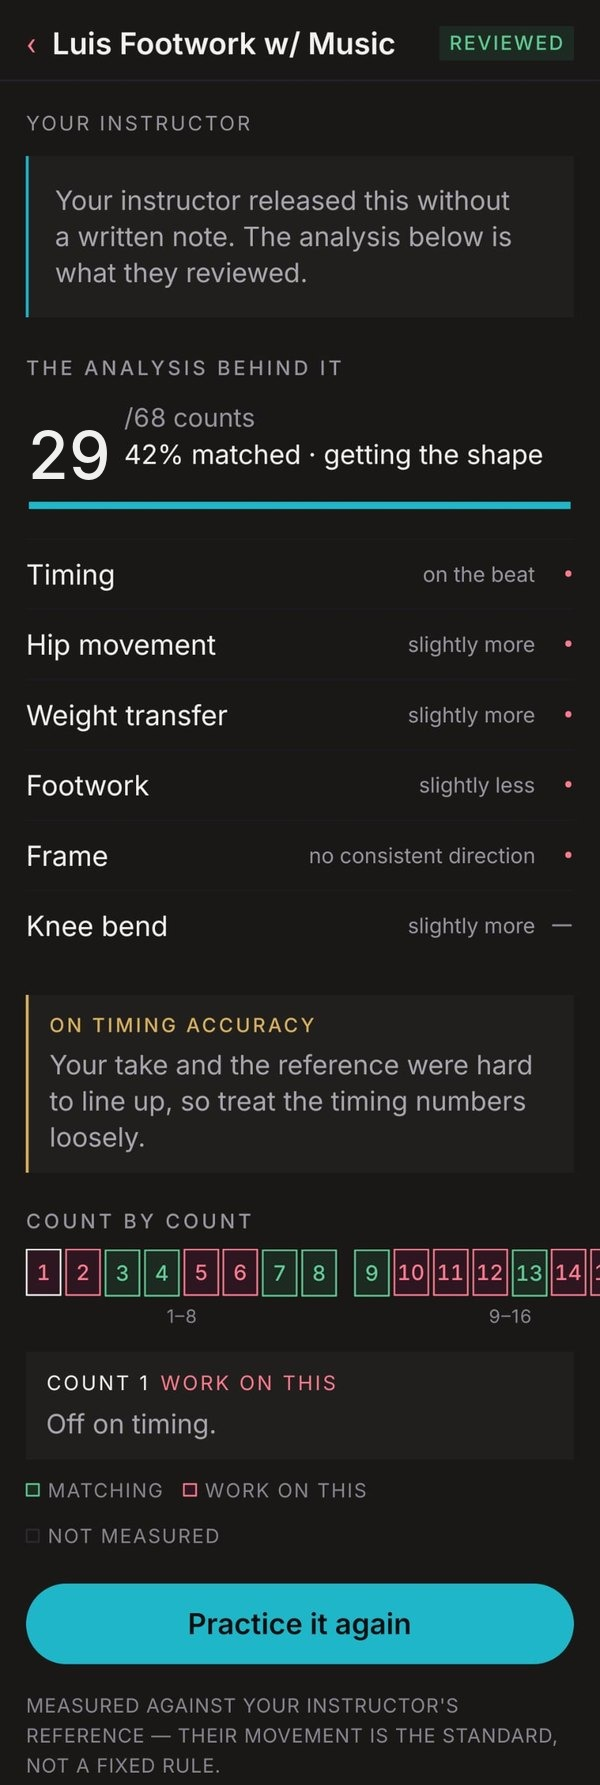
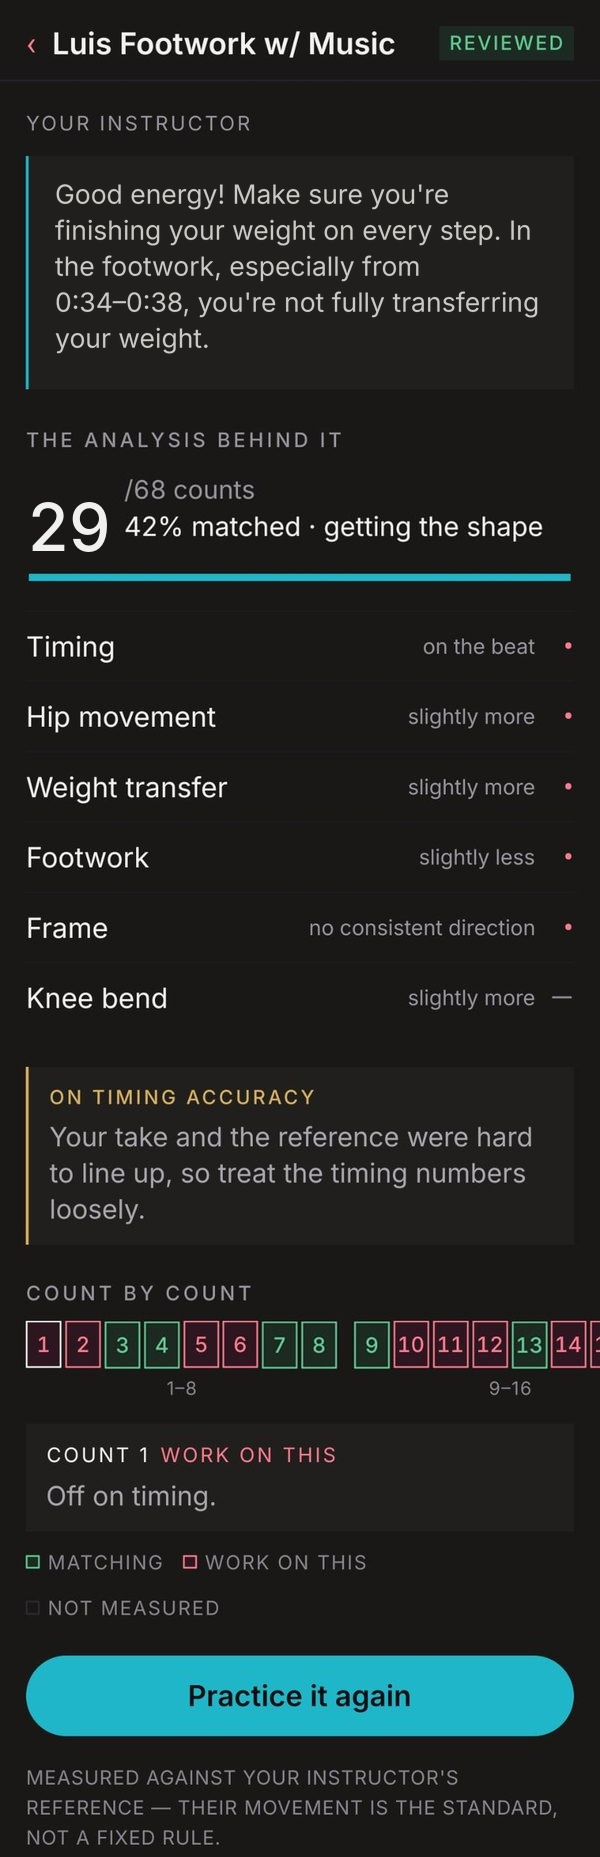
Dance Coach: restructure the case study around the design story (#105)
Claude-Session: https://claude.ai/code/session_018qx1XbAjDzQmDvPBExcwdb

diff --git a/dance-coach.html b/dance-coach.html
@@ -803,9 +803,9 @@ body[data-theme] .next-card:hover .nc-arrow { background: var(--accent); border-
     <figure class="hero-shot"><img src="images/dance-coach/hero.webp?v=6" width="1600" height="825" alt="Instructor review dashboard on a laptop, showing a student's take beside the reference video with a match score of 42, next to the student app on a phone showing a reference video and a Start recording button" /></figure>
 
     <div class="hero-meta"><div class="meta-cell"><span class="k">Role</span><span class="v">Research, product design, system design, and AI-directed build</span></div><div class="meta-cell"><span class="k">Timeline</span><span class="v">Summer 2026–present (in progress)</span></div><div class="meta-cell"><span class="k">Context</span><span class="v">Open Vector curriculum (units 1–3), Anthropic&#x27;s <a class="inline-link" style="font-weight:inherit" href="https://anthropic.skilljar.com/ai-fluency-framework-foundations?next=%2Fai-fluency-framework-foundations%2F291891" target="_blank" rel="noopener">AI Fluency course</a>, and Google&#x27;s <a class="inline-link" style="font-weight:inherit" href="https://pair.withgoogle.com/guidebook/" target="_blank" rel="noopener">People + AI Guidebook</a></span></div><div class="meta-cell"><span class="k">Stack (built by Claude Code)</span><span class="v">MediaPipe, Expo/React Native, FastAPI, Postgres</span></div></div>
-    <div class="prose glance" style="margin-top:28px"><p><strong>At a glance</strong></p><p>Students have no affordable way to get expert feedback between classes. Practicing in a mirror doesn&#x27;t show them why a move looks wrong, so corrections often don&#x27;t stick and progress slows. AI feedback through pose analysis could give them a free, instant way to see what they can&#x27;t catch themselves.</p><ul class="bullets"><li>Interviewed instructors and students in Boston&#x27;s Latin dance community.</li><li>Built the full system end to end: an Android app for students, a web dashboard for instructors, and a pose-analysis backend, tested with real accounts.</li><li>Ran five rounds of fixes to how the app analyzes and scores video, measuring each round on real footage. Technique feedback was still too unreliable to test against the success criteria I had defined.</li><li>Found that MediaPipe was unlikely to do the job students need, then paused the accuracy work to move forward with the design for a model that can.</li></ul></div>
+    <div class="prose glance" style="margin-top:28px"><p><strong>At a glance</strong></p><p>Students have no affordable way to get expert feedback between classes. Practicing in a mirror doesn&#x27;t show them why a move looks wrong, so corrections often don&#x27;t stick and progress slows. AI feedback through pose analysis could give them a free, instant way to see what they can&#x27;t catch themselves.</p><ul class="bullets"><li>Interviewed instructors and students in Boston&#x27;s Latin dance community.</li><li>Built a student app, an instructor dashboard, and a pose-analysis backend by directing Claude Code.</li><li>Ran five rounds of fixes on real footage, but technique feedback stayed too unreliable to test against my success criteria.</li><li>Paused the accuracy work to finish the design for a model that can do the job.</li></ul></div>
 
-    <nav class="jump"><span class="jump-label">Jump to</span><a href="#need">The need</a><a href="#approach">Approach</a><a href="#build">How I built it</a><a href="#testing">Testing</a><a href="#conclusion">Conclusion</a><a href="#change">What would change it</a><a href="#finishing">Finishing the design</a></nav>
+    <nav class="jump"><span class="jump-label">Jump to</span><a href="#need">The need</a><a href="#approach">Approach</a><a href="#build">How I built it</a><a href="#testing">Testing</a><a href="#conclusion">What I found</a><a href="#finishing">Finishing the design</a><a href="#learned">What I learned</a></nav>
 
     <!-- 01 -->
     <section id="need">
@@ -900,7 +900,7 @@ body[data-theme] .next-card:hover .nc-arrow { background: var(--accent); border-
       <a class="more more-link" href="dance-coach-ai-fit.html"><span class="more-label">Defining the AI problem<small>Exercises from Google&#x27;s People + AI Guidebook: whether AI is the right tool, what exactly it must do, and what would count as success. Opens a separate page.</small></span><svg class="chev" viewBox="0 0 16 16" fill="none" stroke="currentColor" stroke-width="2" stroke-linecap="round" stroke-linejoin="round"><path d="M6 3l5 5-5 5"/></svg></a>
       <div class="method-grid">
         <div><div class="m-num">Decision 1</div><h4>The studio&#x27;s own instructor is the reference</h4><p>Every reference video comes from the student&#x27;s own instructor, not a generic model of correct technique, because each studio defines its own standard. Tradeoff: the AI can only compare, never say what is correct on its own.</p></div>
-        <div><div class="m-num">Decision 2</div><h4>The instructor reviews AI feedback before it becomes formal feedback</h4><p>Feedback comes in two tiers. On practice takes, students get AI feedback immediately, as often as they want, and only they see it. When they&#x27;re ready, they submit one final take: the instructor sees the same AI analysis, removes or corrects anything wrong, adds their own notes, and only then releases it to the student as formal feedback. Tradeoff: in practice mode, students see AI feedback no one has checked. That became the project&#x27;s central risk.</p></div>
+        <div><div class="m-num">Decision 2</div><h4>Instructors review AI feedback, and students can flag it</h4><p>Feedback comes in two tiers. On practice takes, students get AI feedback immediately, as often as they want, and only they see it. When they&#x27;re ready, they submit one final take: the instructor sees the same AI analysis, removes or corrects anything wrong, adds their own notes, and only then releases it to the student as formal feedback. Tradeoff: in practice mode, students see AI feedback no one has checked. That became the project&#x27;s central risk. To address it, I&#x27;m adding a way for students to flag a correction that looks wrong. If they submit that take, the instructor sees the flag next to the correction during review.</p></div>
         <div><div class="m-num">Decision 3</div><h4>Students on a mobile app, instructors on a web dashboard</h4><p>Students record on their phones, and Lumyr reviews only on a laptop with two monitors. Tradeoff: two front ends to build and maintain.</p></div>
       </div>
       <div class="dc-body" style="margin-top:24px">
@@ -909,7 +909,7 @@ body[data-theme] .next-card:hover .nc-arrow { background: var(--accent); border-
         <div class="app-screens">
           <figure><figcaption><b>Steps 3–4</b> · Practice feedback, only the student sees it</figcaption><img src="images/dance-coach/screen-practice.jpg" width="600" height="1489" loading="lazy" alt="Student app practice check: the student's take playing at the top, a score of 95 out of 105 counts, 91% matched, a count-by-count strip with counts to work on marked, and a Send to your instructor button" /></figure>
           <figure><figcaption><b>Step 5</b> · Final take sent to the instructor</figcaption><img src="images/dance-coach/screen-sent.jpg" width="600" height="1186" loading="lazy" alt="Student app confirmation: Luis Footwork w/ Music is with your instructor, with a Check for feedback button" /></figure>
-          <figure><figcaption><b>Step 8</b> · Released feedback</figcaption><img src="images/dance-coach/screen-released.jpg" width="600" height="1785" loading="lazy" alt="Student app released feedback: 29 of 68 counts, 42% matched, six markers, a timing accuracy caution, and a count-by-count strip with matching and work-on-this counts" /></figure>
+          <figure><figcaption><b>Step 8</b> · Released feedback</figcaption><img src="images/dance-coach/screen-released.jpg" width="600" height="1857" loading="lazy" alt="Student app released feedback: a sample instructor note, 29 of 68 counts, 42% matched, six markers, a timing accuracy caution, and a count-by-count strip with matching and work-on-this counts" /></figure>
         </div>
         <figure class="app-desk"><figcaption><b>Step 6</b> · Instructor review on the web dashboard</figcaption><img src="images/dance-coach/screen-review.jpg" width="1400" height="2005" loading="lazy" alt="Instructor dashboard review screen in dark mode: the student's take beside the reference video, a match score of 42 with a timing-confidence warning, six markers with three matching, and a feedback box with a Release to Student button" /></figure>
       </div>
@@ -918,14 +918,13 @@ body[data-theme] .next-card:hover .nc-arrow { background: var(--accent); border-
     <!-- 03 -->
     <section id="build">
       <div class="section-head"><span class="section-eyebrow"><span class="num">03</span>How I built it</span></div>
-      <div class="prose"><p>Since I don&#x27;t have a coding background, I built the system by directing Claude Code, following the Open Vector curriculum. Open Vector has you plan the system first, check what the agent produces, and understand why it works. My job was to set the plan, give the agent context, and catch it when it was wrong. This project covers units 1–3. Unit 3, The Pipeline, ends with validation, which is where this project reached its answer.</p></div>
+      <div class="prose"><p>Since I don&#x27;t have a coding background, I built the system by directing Claude Code, following the Open Vector curriculum. Open Vector has you plan the system first, check what the agent produces, and understand why it works. My job was to set the plan, give the agent context, and catch it when it was wrong.</p></div>
       <ul class="impact-list">
         <li><span class="imp-num">01</span><div class="imp-body"><h4>Plan the system before prompting.</h4><p>I modeled the data as nouns and verbs (team, choreo piece, practice take, analysis, instructor note) and wrote VECTOR.md, one document describing the users, the loop and the data model. The agent read it at the start of every session.</p></div></li>
         <li><span class="imp-num">02</span><div class="imp-body"><h4>Stage the work.</h4><p>Thirteen prompts built the core loop, one feature each, in dependency order: storage, then pose analysis, then the dashboard, then sign-in. I checked each one worked before writing the next.</p></div></li>
         <li><span class="imp-num">03</span><div class="imp-body"><h4>Check the agent&#x27;s output.</h4><p>It modeled bachata hip action and weight transfer wrong, and only my training as a dancer caught that. It also left unreleased feedback readable by anyone with the URL, which I caught by reviewing API responses; roles are now verified on the server.</p></div></li>
-        <li><span class="imp-num">04</span><div class="imp-body"><h4>Keep the docs honest.</h4><p>VECTOR.md once said sign-in was built when it wasn&#x27;t. A script now checks the document&#x27;s countable claims against the code.</p></div></li>
       </ul>
-      <div class="prose" style="margin-top:28px"><p>The result runs end to end in production: an Android app for students, a web dashboard for instructors, and a backend that analyzes movement with MediaPipe, Google&#x27;s open-source pose-estimation library.</p></div>
+      <div class="prose" style="margin-top:28px"><p>The result runs end to end in production: an Android app for students, a web dashboard for instructors, and a backend that analyzes movement with MediaPipe.</p></div>
       <a class="more more-link" href="dance-coach-build.html"><span class="more-label">How I built it<small>Prompts, file history, architecture review, data model, and every problem I caught. Opens a separate page.</small></span></a>
     </section>
 
@@ -935,9 +934,9 @@ body[data-theme] .next-card:hover .nc-arrow { background: var(--accent); border-
       <div class="prose"><p>When I ran real student videos through the app, the technique feedback wasn&#x27;t accurate enough to trust. I paused feature work and ran five rounds of fixes to how the app analyzes and scores video, each measured against real takes.</p>
       <p>The model&#x27;s own measures improved:</p><ul class="bullets"><li>A video compared with itself went from a match score of 75 out of 100 to 100.</li><li>On one pair of real takes, the gap between a correct and a deliberately wrong take grew from 2.4 to 11.2 points.</li></ul>
       <p>But the technique feedback stayed unreliable:</p><ul class="bullets"><li>It scored stylistic choices, like accents and shoulder styling, as errors.</li><li>Two differently compressed copies of the same video agreed on weight transfer for only 87.5% of counts.</li><li>Camera angle, distance, lighting and body type changed how large a movement looked.</li><li>In a live test with Andres, it found real differences between a beginner and an advanced dancer, but anyone could see those by eye. The tool would only earn trust by catching the small mistakes a student can&#x27;t see.</li></ul>
-      <p><strong>Why.</strong> MediaPipe&#x27;s documentation explains most of this. It tracks 33 points on the body. The hips are two points and there are no spine points, so pelvic tilt, the core of bachata hip action, can only be estimated indirectly. Each foot has three points, too few to judge foot placement. Depth from a single phone camera is an estimate. Unlike several other MediaPipe tasks, pose detection can&#x27;t be retrained, so it can&#x27;t learn Latin dance technique. And it&#x27;s built for fitness form checks, where correct form is fixed, while correct dance technique depends on each studio.</p>
+      <p><strong>Why.</strong> MediaPipe&#x27;s documentation explains most of this. It tracks too few points on the hips, spine and feet to judge Latin dance technique, and its pose detection can&#x27;t be retrained.</p>
       <p><strong>What I would change on a real product.</strong> I would check these limits before building. This project&#x27;s main purpose was to practice building with AI, so I continued with MediaPipe as a learning exercise. I wanted to see for myself how far I could push it by changing the scoring criteria before deciding whether it met the project&#x27;s needs. It still fell short of what students need, so I&#x27;m finishing the design as if I had a satisfactory pose analysis model, although I don&#x27;t have one in reality.</p>
-      <p><strong>What I haven&#x27;t tested.</strong> The controlled accuracy test (same dancer, clothing and lighting, including deliberately wrong choreography) hasn&#x27;t been run, and the backend used MediaPipe&#x27;s smallest model at 10 frames per second. A larger model and higher frame rate could improve timing, but wouldn&#x27;t add the missing body points. I also didn&#x27;t test heavier whole-body models, such as RTMPose or ViTPose, which track more points on the feet. They could change the conclusion. I haven&#x27;t tested whether AI feedback helps students progress faster, because that test depends on feedback accurate enough to trust.</p></div>
+      <p><strong>What I haven&#x27;t tested.</strong> I didn&#x27;t run the full controlled accuracy test, try heavier pose models, or measure whether AI feedback helps students progress faster.</p></div>
       <details class="more"><summary><span class="more-label">Accuracy tests<small>What improved and what&#x27;s still unreliable</small></span><svg class="chev" viewBox="0 0 16 16" fill="none" stroke="currentColor" stroke-width="2" stroke-linecap="round" stroke-linejoin="round"><path d="M4 6l4 4 4-4"/></svg></summary><div class="more-body dc-body"><div class="prose">
         <p>Results after five rounds of fixes, each measured against real takes:</p><ul class="bullets"><li>Same video compared with itself: a match score of 75 out of 100, now 100</li><li>Gap between a correct and a deliberately wrong take, measured on one pair of real takes: 2.4 points, now 11.2</li><li>Beginner vs. advanced dancer, a live run with Andres: found real differences in the right shoulder, head stability (about 51% more head movement for the beginner), and spine tilt, and flagged core engagement without being asked</li></ul>
         <p><strong>Still unreliable.</strong></p><ul class="bullets"><li>Style is scored as error: accent ratio and shoulder ratio measure stylistic choices, not mistakes.</li><li>Some measures are limited by the pose tracking itself. Two differently compressed copies of the same video agreed on weight transfer for only 87.5% of counts, so weight transfer is shown but no longer scored.</li><li>No test yet with deliberately wrong choreography, so the score may be too generous toward it.</li><li>Recording conditions distort results: body type, distance from the camera, lighting, and framing change how large a movement looks.</li><li>A failed pose detection shows as a score of 0, which looks like bad dancing.</li><li>Count numbering assumes count 1 has the most movement, so feedback can name the wrong count.</li></ul>
@@ -947,33 +946,35 @@ body[data-theme] .next-card:hover .nc-arrow { background: var(--accent); border-
 
     <!-- 05 -->
     <section id="conclusion">
-      <div class="section-head"><span class="section-eyebrow"><span class="num">05</span>The conclusion</span></div>
+      <div class="section-head"><span class="section-eyebrow"><span class="num">05</span>What I found</span></div>
       <div class="prose"><p>MediaPipe can judge timing: whether a student moves on the count. But timing alone isn&#x27;t worth switching for.</p><ul class="bullets"><li><strong>Students&#x27; problem is technique they can&#x27;t see themselves.</strong> Timing is the part they can already partly check against the music.</li><li><strong>Instructors don&#x27;t need the time saved.</strong> Lumyr spends 1–2 hours a week on homework videos and doesn&#x27;t mind it.</li><li><strong>Switching has a cost.</strong> It means a new app next to Band, plus a habit of recording and comparing that students don&#x27;t currently have.</li></ul>
-      <p>So I paused the accuracy work before running the full controlled test, and I wouldn&#x27;t release practice feedback to students using MediaPipe as it stands. Wrong technique feedback that no one has checked does more harm than no feedback. That conclusion answers the technology question, but a design question remains: what should the product do once a model can give reliable technique feedback?</p>
-      <p style="margin-top:28px"><strong>What I learned</strong></p></div>
+      <p>I wouldn&#x27;t release practice feedback to students using MediaPipe as it stands. Wrong technique feedback that no one has checked does more harm than no feedback. That answers the technology question, but a design question remains: what should the product do once a model can give reliable technique feedback?</p></div>
+      <details class="more"><summary><span class="more-label">Why MediaPipe fell short<small>Its technical limits, what I haven&#x27;t tested, and what would have to change</small></span><svg class="chev" viewBox="0 0 16 16" fill="none" stroke="currentColor" stroke-width="2" stroke-linecap="round" stroke-linejoin="round"><path d="M4 6l4 4 4-4"/></svg></summary><div class="more-body dc-body"><div class="prose">
+        <p><strong>Why.</strong> MediaPipe&#x27;s documentation explains most of this. It tracks 33 points on the body. The hips are two points and there are no spine points, so pelvic tilt, the core of bachata hip action, can only be estimated indirectly. Each foot has three points, too few to judge foot placement. Depth from a single phone camera is an estimate. Unlike several other MediaPipe tasks, pose detection can&#x27;t be retrained, so it can&#x27;t learn Latin dance technique. And it&#x27;s built for fitness form checks, where correct form is fixed, while correct dance technique depends on each studio.</p>
+        <p><strong>What I haven&#x27;t tested.</strong> The controlled accuracy test (same dancer, clothing and lighting, including deliberately wrong choreography) hasn&#x27;t been run, and the backend used MediaPipe&#x27;s smallest model at 10 frames per second. A larger model and higher frame rate could improve timing, but wouldn&#x27;t add the missing body points. I also didn&#x27;t test heavier whole-body models, such as RTMPose or ViTPose, which track more points on the feet. They could change the conclusion. I haven&#x27;t tested whether AI feedback helps students progress faster, because that test depends on feedback accurate enough to trust.</p>
+        <p><strong>What would have to change.</strong></p><p>For AI technique feedback to work, at least one of these would need to exist:</p><ul class="bullets"><li>A heavier whole-body model, such as RTMPose or ViTPose, that tracks more points on the feet. This is the cheapest test, and I haven&#x27;t run it.</li><li>A pose model trained on dance footage, with more points on the hips, spine and feet.</li><li>Recording from more than one camera, so depth is measured instead of estimated.</li><li>A narrower task: single named steps instead of full choreography. SyC&#x27;s instructors pointed out that single steps have clean framing and one clear target, and the build showed that comparing two videos filmed in different rooms and angles caused most of the errors.</li></ul>
+      <p>Of the ideas that change the task rather than the model, the last is the most realistic. It would also serve the second need that came up in research: helping instructors decide when a student is ready to move up a level.</p>
+      </div></div></details>
+    </section>
+
+    <section id="finishing">
+      <div class="section-head"><span class="section-eyebrow"><span class="num">06</span>Finishing the design</span></div>
+      <div class="prose" style="margin-top:24px">
+        <p>The accuracy work was taking most of my time, so I paused it before running the full controlled test and returned to the design. On a product team, I would work with engineers on the model and define what accurate feedback means for dancers. For the rest of the design, I&#x27;m assuming a reliable pose analysis model that gives useful dance technique feedback.</p>
+        <p>Even a reliable model will make mistakes, so the design has to handle them. The app already tells students when it couldn&#x27;t see part of their body or measure a take. It also warns them in released feedback when timing is uncertain. Those notes cover measurement problems, but they can&#x27;t catch a correction that is wrong on a clear video. Only a person can catch that, so I&#x27;m adding a way for students to flag a specific correction. Practice takes stay private, and the instructor sees a flag only if the student submits that take.</p>
+        <p>Task-based usability tests with students and instructors on the coded app are upcoming. They&#x27;ll use scripted feedback, so people&#x27;s reactions reflect the design rather than the current model.</p>
+      </div>
+    </section>
+
+    <section id="learned">
+      <div class="section-head"><span class="section-eyebrow"><span class="num">07</span>What I learned</span></div>
       <ul class="impact-list">
         <li><span class="imp-num">01</span><div class="imp-body"><h4>Test AI on the cases that are hard to judge.</h4><p>The analysis was right where the answer was obvious, which is exactly where nobody needs it.</p></div></li>
-        <li><span class="imp-num">02</span><div class="imp-body"><h4>An AI agent builds fast, so deciding when to stop matters more.</h4><p>The most important decision in the project was to stop and validate.</p></div></li>
+        <li><span class="imp-num">02</span><div class="imp-body"><h4>An AI agent builds fast, so deciding when to stop matters more.</h4><p>Pausing feature work to check the feedback was one of the most important decisions in the project.</p></div></li>
         <li><span class="imp-num">03</span><div class="imp-body"><h4>The agent is only as right as the domain knowledge I give it.</h4><p>My dance training caught errors the agent couldn&#x27;t.</p></div></li>
         <li><span class="imp-num">04</span><div class="imp-body"><h4>Building is a way to answer a product question.</h4><p>Directing an agent let me test the AI on real footage without an engineering team.</p></div></li>
         <li><span class="imp-num">05</span><div class="imp-body"><h4>Match the method to the goal.</h4><p>Learning to build with agents was my main goal, so building the full system was the point. But for the product question alone, I&#x27;d test the riskiest assumption first: a standalone script comparing a few videos, reviewed with an instructor, would likely have shown MediaPipe&#x27;s limits within a week or two.</p></div></li>
       </ul>
-    </section>
-
-    <!-- 06 -->
-    <section id="change">
-      <div class="section-head"><span class="section-eyebrow"><span class="num">06</span>What would have to change</span></div>
-      <div class="prose"><p>For AI technique feedback to work, at least one of these would need to exist:</p><ul class="bullets"><li>A heavier whole-body model, such as RTMPose or ViTPose, that tracks more points on the feet. This is the cheapest test, and I haven&#x27;t run it.</li><li>A pose model trained on dance footage, with more points on the hips, spine and feet.</li><li>Recording from more than one camera, so depth is measured instead of estimated.</li><li>A narrower task: single named steps instead of full choreography. SyC&#x27;s instructors pointed out that single steps have clean framing and one clear target, and the build showed that comparing two videos filmed in different rooms and angles caused most of the errors.</li></ul>
-      <p>Of the ideas that change the task rather than the model, the last is the most realistic. It would also serve the second need that came up in research: helping instructors decide when a student is ready to move up a level.</p></div>
-    </section>
-
-    <section id="finishing">
-      <div class="section-head"><span class="section-eyebrow"><span class="num">07</span>Finishing the design</span></div>
-      <div class="prose" style="margin-top:24px">
-        <p>The accuracy work was taking most of my time, so I paused it before running the full controlled test and returned to the design. On a product team, I would work with engineers on the model and define what accurate feedback means for dancers. For the rest of the design, I&#x27;m assuming a reliable pose analysis model that gives useful dance technique feedback.</p>
-        <p>Even a reliable model will make mistakes, so the design has to handle them. The app already tells students when it couldn&#x27;t see part of their body or measure a take. It also warns them in released feedback when timing is uncertain. Those notes cover measurement problems, but they can&#x27;t catch a correction that is wrong on a clear video. Only a person can catch that, so I&#x27;m adding a way for students to flag a specific correction. Practice takes stay private, and the instructor sees a flag only if the student submits that take.</p>
-        <p>Next, I&#x27;m running task-based usability tests with students and instructors on the coded app. The tests use scripted feedback, so people&#x27;s reactions reflect the design rather than the current model. I&#x27;ll add the results here.</p>
-      </div>
     </section>
 
     <section id="next">
